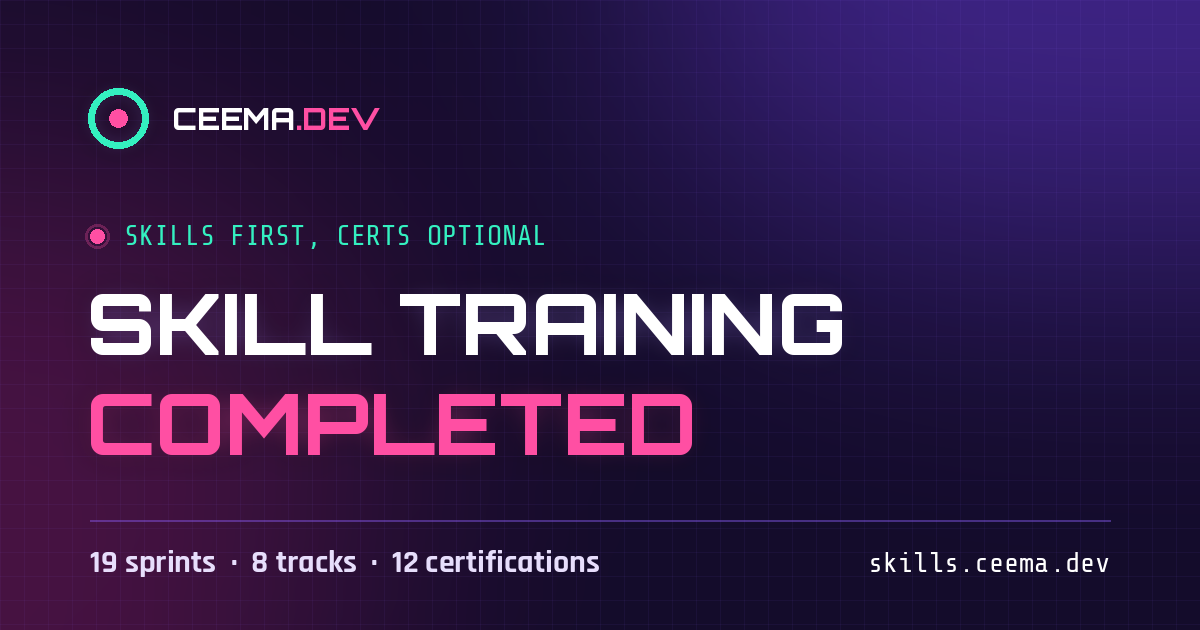
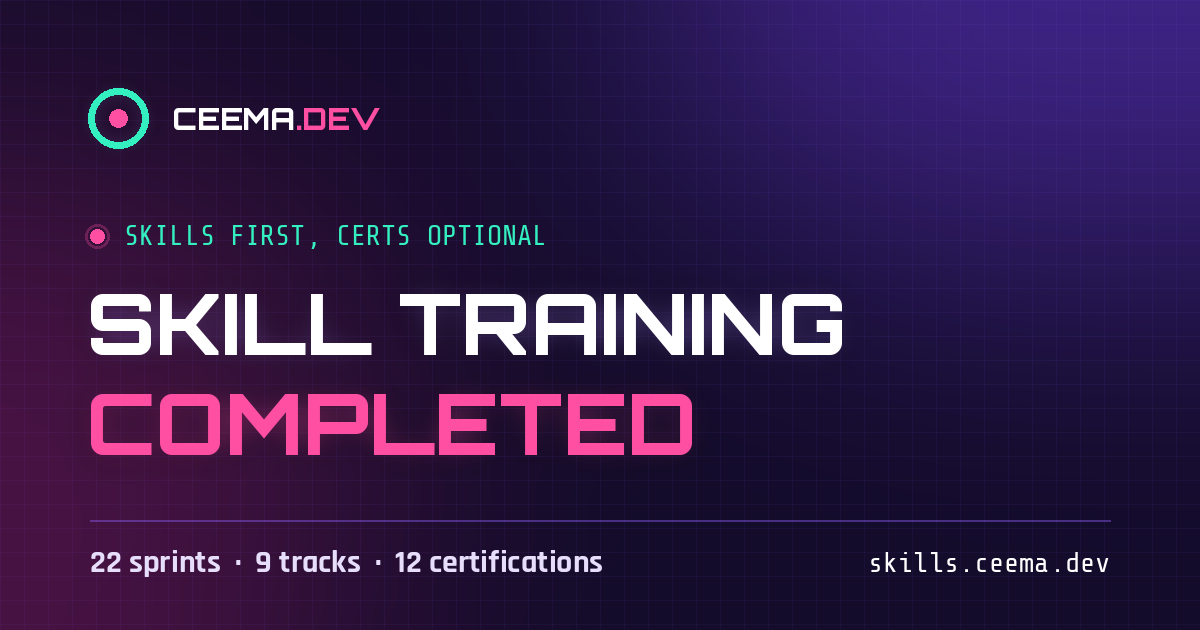
Counts for the Claude sprints: 22 sprints, 9 tracks, 12 certifications
- og.png remade from data.json; og.png?v=7 on every page.
- Home: meta description and hero name Claude and 22 sprints; 'All 9 tracks', 'Swipe for
  all 9 tracks', 'The 22 sprints'; the sprints intro opens with C1 (every track) and C2/C3
  (Track I).

Claude-Session: https://claude.ai/code/session_016iQhQCJeGcDbDAJzPVGYtE

Changed region(s): [[0.0617, 0.8746, 0.5242, 0.9349]]

diff --git a/src/index.src.html b/src/index.src.html
@@ -4,7 +4,7 @@
 <meta charset="UTF-8">
 <meta name="viewport" content="width=device-width, initial-scale=1.0, viewport-fit=cover">
 <title>Skill Training Completed</title>
-<meta name="description" content="A skills-first study path from IT basics to Windows Server, Azure, Linux, AWS, cloud and security. One home lab, 19 sprints, certifications optional.">
+<meta name="description" content="A skills-first study path from Claude and IT basics to Windows Server, Azure, Linux, AWS, cloud and security. One home lab, 22 sprints, certifications optional.">
 <link rel="icon" type="image/png" href="/favicon.png?v=2">
 <link rel="apple-touch-icon" href="/apple-touch-icon.png?v=2">
 <meta name="theme-color" content="#140c2b">
@@ -12,7 +12,7 @@
 <meta property="og:title" content="Skill Training Completed">
 <meta property="og:description" content="A skills-first study path for Windows Server, Azure, Linux, cloud and security. Certifications optional.">
 <meta property="og:url" content="https://skills.ceema.dev/">
-<meta property="og:image" content="https://skills.ceema.dev/og.png?v=6">
+<meta property="og:image" content="https://skills.ceema.dev/og.png?v=7">
 <meta property="og:image:width" content="1200">
 <meta property="og:image:height" content="630">
 <meta property="og:image:alt" content="Skill Training Completed: skills first, certs optional">
@@ -90,7 +90,7 @@ __SHARED_CSS__
   <section class="hero">
     <span class="eyebrow">Skills first, certs optional</span>
     <h1>Skill Training <span>Completed</span></h1>
-    <p>One home lab and 19 sprints, from IT basics through Windows Server, Azure, Linux, Cisco networking, AWS, cloud and security. Each sprint ends with something you built and someone else can check. Certifications are optional exams along the way.</p>
+    <p>One home lab and 22 sprints, from Claude and IT basics through Windows Server, Azure, Linux, Cisco networking, AWS, cloud and security. Each sprint ends with something you built and someone else can check. Certifications are optional exams along the way.</p>
     <div class="ctas"><a class="btn btn-primary" href="#choose">Find my track</a><a class="btn btn-ghost" href="__ZIP_URL__">Download the study kit (ZIP)</a></div>
   </section>
 
@@ -105,20 +105,20 @@ __SHARED_CSS__
 
   <section id="tracks">
     <h2>Pick a track</h2>
-    <p class="lede">All 8 tracks use the same sprints. Your pick sets which ones you do and whether you sit exams. Week counts assume about 8 hours a week. Exam costs are US list prices for one attempt each; see Resources for each exam.</p>
+    <p class="lede">All 9 tracks use the same sprints. Your pick sets which ones you do and whether you sit exams. Week counts assume about 8 hours a week. Exam costs are US list prices for one attempt each; see Resources for each exam.</p>
     <div class="choose" id="choose">
       <h3>Not sure? Start here</h3>
       <ul>
         __CHOOSER__
       </ul>
     </div>
-    <p class="swipe" aria-hidden="true">Swipe for all 8 tracks &rarr;</p>
+    <p class="swipe" aria-hidden="true">Swipe for all 9 tracks &rarr;</p>
     <div class="cards row" role="region" aria-label="Tracks" tabindex="0">__TRACK_CARDS__</div>
   </section>
 
   <section id="sprints">
-    <h2>The 19 sprints</h2>
-    <p class="lede">F1 to F3 are the Foundations sprints, for people new to IT. The core sprints, S0 to S13, start with Windows and Azure so the AZ-802 exam comes early, and each one adds a short Linux lab alongside the Windows work. N1 is the Cisco sprint for Track G, and A1 the AWS sprint for Track H.</p>
+    <h2>The 22 sprints</h2>
+    <p class="lede">C1 starts every track: it teaches you to use Claude well for study and IT work, and C2 and C3 go further in Track I. F1 to F3 are the Foundations sprints, for people new to IT. The core sprints, S0 to S13, start with Windows and Azure so the AZ-802 exam comes early, and each one adds a short Linux lab alongside the Windows work. N1 is the Cisco sprint for Track G, and A1 the AWS sprint for Track H.</p>
     <div class="sprints">__SPRINT_ROWS__</div>
     <script>if (window.matchMedia("(min-width: 700px)").matches) document.querySelectorAll("details.sprint").forEach(function (d) { d.open = true; });</script>
   </section>

diff --git a/src/resources.src.html b/src/resources.src.html
@@ -12,7 +12,7 @@
 <meta property="og:title" content="Resources - Skill Training Completed">
 <meta property="og:description" content="Official pages, study guides, free videos and Udemy picks for every exam, plus lab tool guides.">
 <meta property="og:url" content="https://skills.ceema.dev/resources.html">
-<meta property="og:image" content="https://skills.ceema.dev/og.png?v=6">
+<meta property="og:image" content="https://skills.ceema.dev/og.png?v=7">
 <meta property="og:image:width" content="1200">
 <meta property="og:image:height" content="630">
 <meta property="og:image:alt" content="Skill Training Completed: skills first, certs optional">

diff --git a/src/calendar.src.html b/src/calendar.src.html
@@ -12,7 +12,7 @@
 <meta property="og:title" content="Study Calendar - Skill Training Completed">
 <meta property="og:description" content="Pick a track, a start date and your weekly hours. Get a sprint-by-sprint study calendar.">
 <meta property="og:url" content="https://skills.ceema.dev/calendar.html">
-<meta property="og:image" content="https://skills.ceema.dev/og.png?v=6">
+<meta property="og:image" content="https://skills.ceema.dev/og.png?v=7">
 <meta property="og:image:width" content="1200">
 <meta property="og:image:height" content="630">
 <meta property="og:image:alt" content="Skill Training Completed: skills first, certs optional">

diff --git a/src/sprint.src.html b/src/sprint.src.html
@@ -12,7 +12,7 @@
 <meta property="og:title" content="__S_ID__. __S_NAME__ - Skill Training Completed">
 <meta property="og:description" content="__S_OUTCOME__">
 <meta property="og:url" content="https://skills.ceema.dev/sprints/__S_SLUG__.html">
-<meta property="og:image" content="https://skills.ceema.dev/og.png?v=6">
+<meta property="og:image" content="https://skills.ceema.dev/og.png?v=7">
 <meta property="og:image:width" content="1200">
 <meta property="og:image:height" content="630">
 <meta property="og:image:alt" content="Skill Training Completed: skills first, certs optional">
